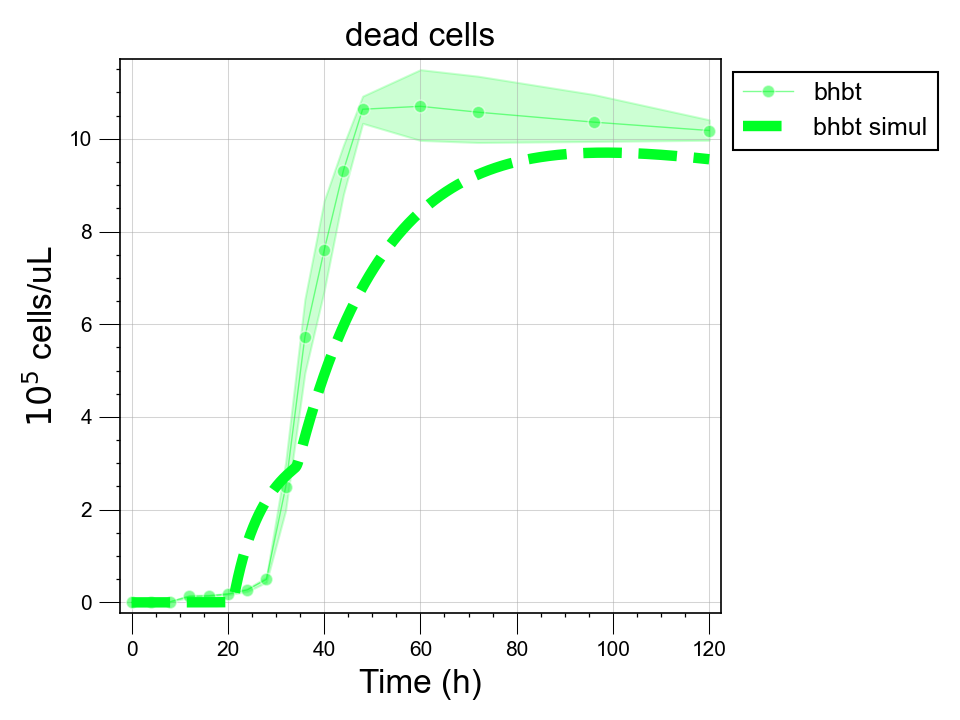
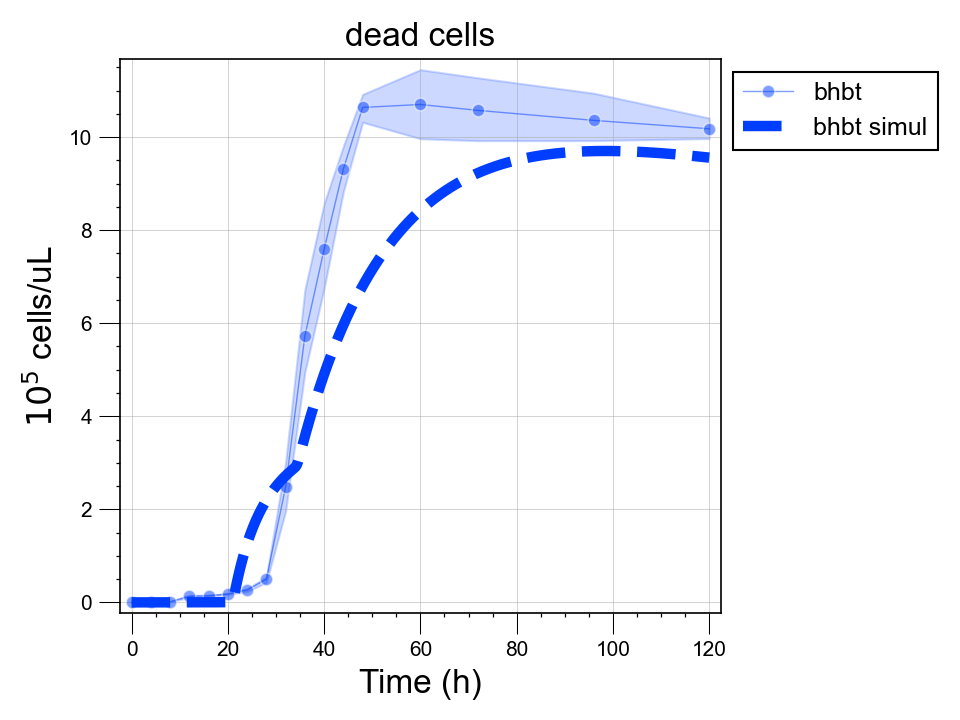
updates

diff --git a/scripts/compare2experiments/compareModel2States.py b/scripts/compare2experiments/compareModel2States.py
@@ -260,7 +260,7 @@ for i,v in enumerate(states):
 species = 'bhbt'
 experiments = ['bhbt']
 labels = ['bhbt']
-colors = ['#00ff26']
+colors = ['#003eff']
 
 #params = getPramsFromFile('ri', os.path.join(Path(os.getcwd()).parents[1], 'files', 'params', 'ri.tsv'))
 
